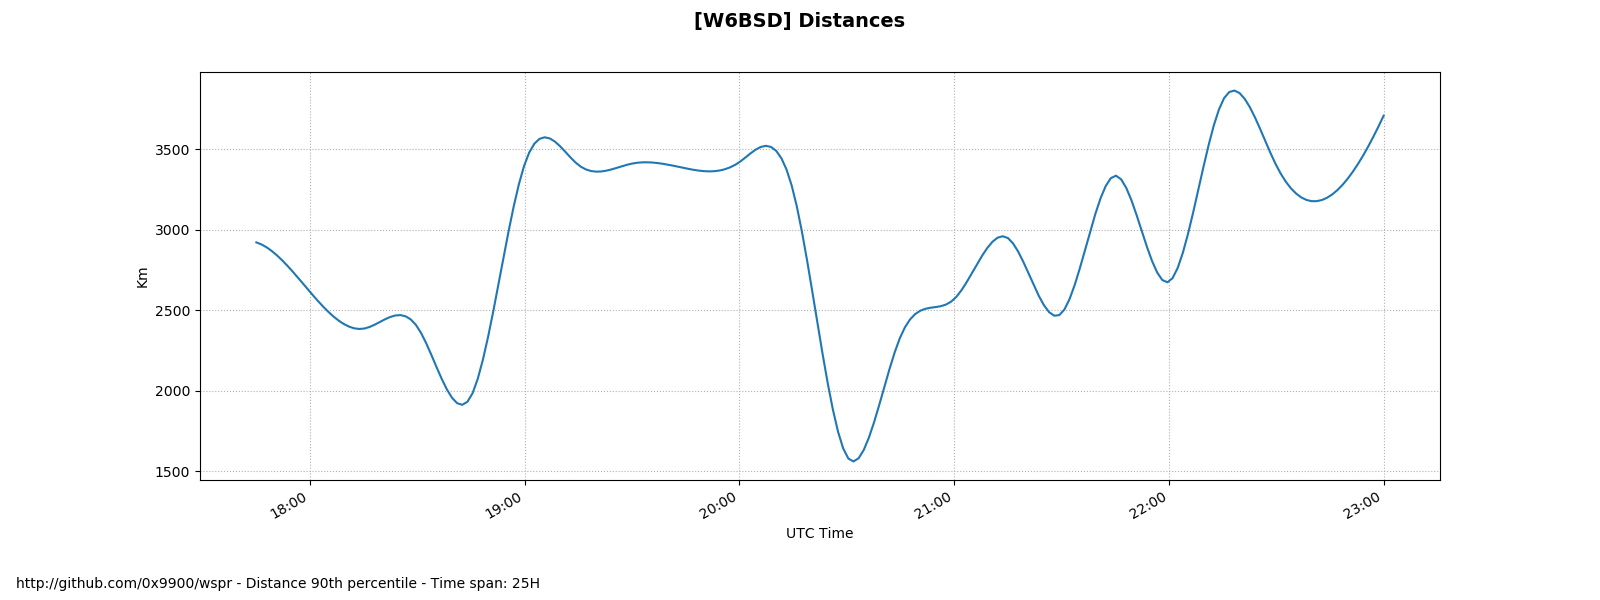
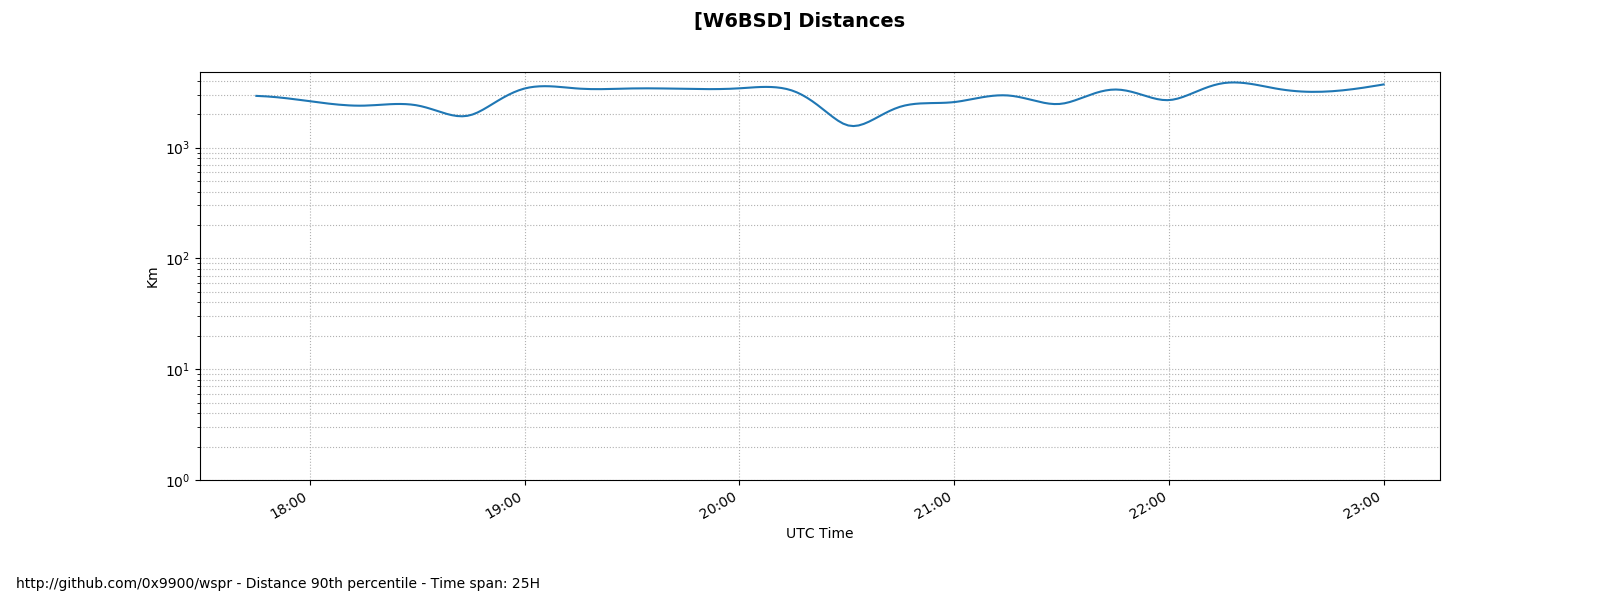
Change displot Y axis to a logarithmic scale ignore test files

diff --git a/leaf.py b/leaf.py
@@ -65,6 +65,7 @@ class Config(object):
   # pylint: disable=too-few-public-methods
   target = '/tmp'
   granularity = 8
+  percentile = 90
   fig_size = (16, 6)
   timelimit = '25H'
   count = 10000
@@ -205,21 +206,10 @@ def dist_plot(wspr_data):
   filename = os.path.join(Config.target, 'distplot.png')
   logging.info('Drawing distplot to %s', filename)
 
-  fig, ax_ = plt.subplots(figsize=Config.fig_size)
-  fig.text(.01, .02, ('http://github.com/0x9900/wspr - Distance 90th percentile - '
-                      'Time span: %s') % Config.timelimit)
-  fig.suptitle('[{}] Distances'.format(Config.callsign), fontsize=14, fontweight='bold')
-  fig.autofmt_xdate()
-
-  ax_.xaxis.set_major_formatter(mdates.DateFormatter('%H:%M'))
-  ax_.grid(True, linestyle='dotted')
-  ax_.set_xlabel('UTC Time')
-  ax_.set_ylabel('Km')
-
   collection = collections.defaultdict(list)
   for data in wspr_data:
     collection[900 * (data.timestamp / 900)].append(data.distance)
-  collection = {k: np.percentile(v, 90) for k, v in collection.items()}
+  collection = {k: np.percentile(v, Config.percentile) for k, v in collection.items()}
 
   xval, yval = zip(*[(k, v) for k, v in sorted(collection.items())])
   xval = np.array(xval)
@@ -230,7 +220,19 @@ def dist_plot(wspr_data):
   spline = make_interp_spline(xval, yval, k=k_factor)
   smooth = spline(xnew)
 
-  plt.plot([datetime.utcfromtimestamp(x) for x in xnew], smooth)
+  fig, ax_ = plt.subplots(figsize=Config.fig_size)
+  fig.text(.01, .02, ('http://github.com/0x9900/wspr - Distance %sth percentile - '
+                      'Time span: %s') % (Config.percentile, Config.timelimit))
+  fig.suptitle('[{}] Distances'.format(Config.callsign), fontsize=14, fontweight='bold')
+  fig.autofmt_xdate()
+
+  ax_.xaxis.set_major_formatter(mdates.DateFormatter('%H:%M'))
+  ax_.grid(True, which="both", linestyle='dotted')
+  ax_.set_xlabel('UTC Time')
+  ax_.set_ylabel('Km')
+  ax_.set_yscale('log')
+  ax_.set_ylim(1, yval.max()+1000)
+  ax_.plot([datetime.utcfromtimestamp(x) for x in xnew], smooth)
 
   plt.savefig(filename)
   plt.close()
